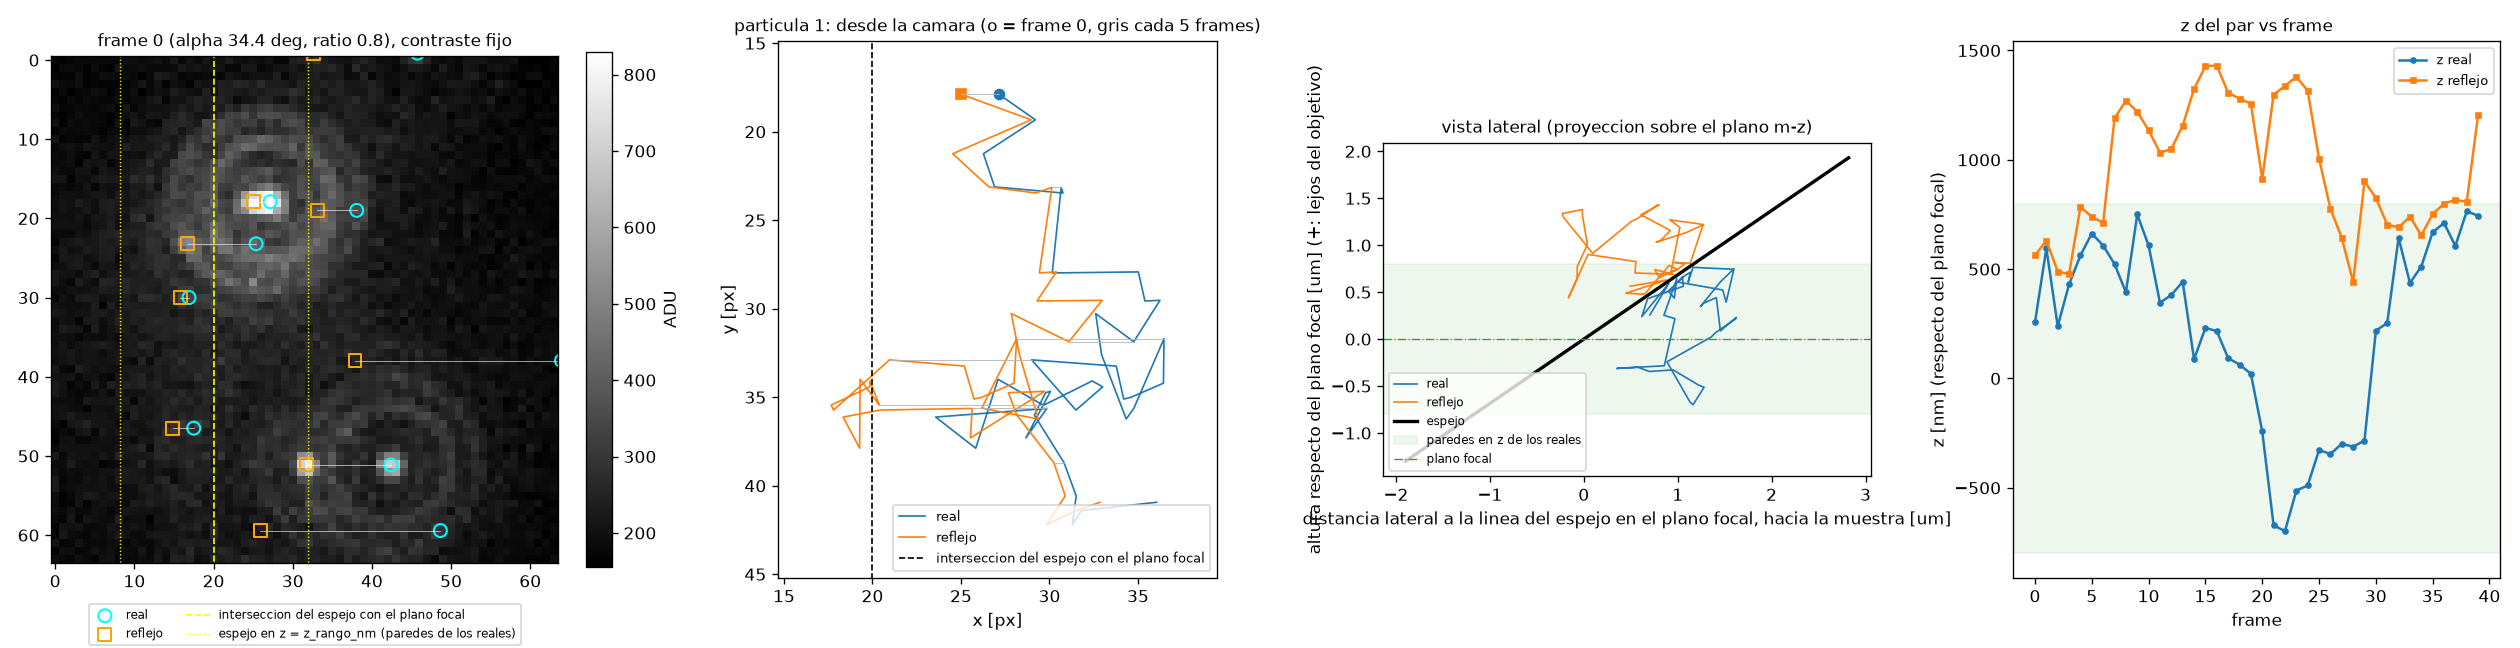
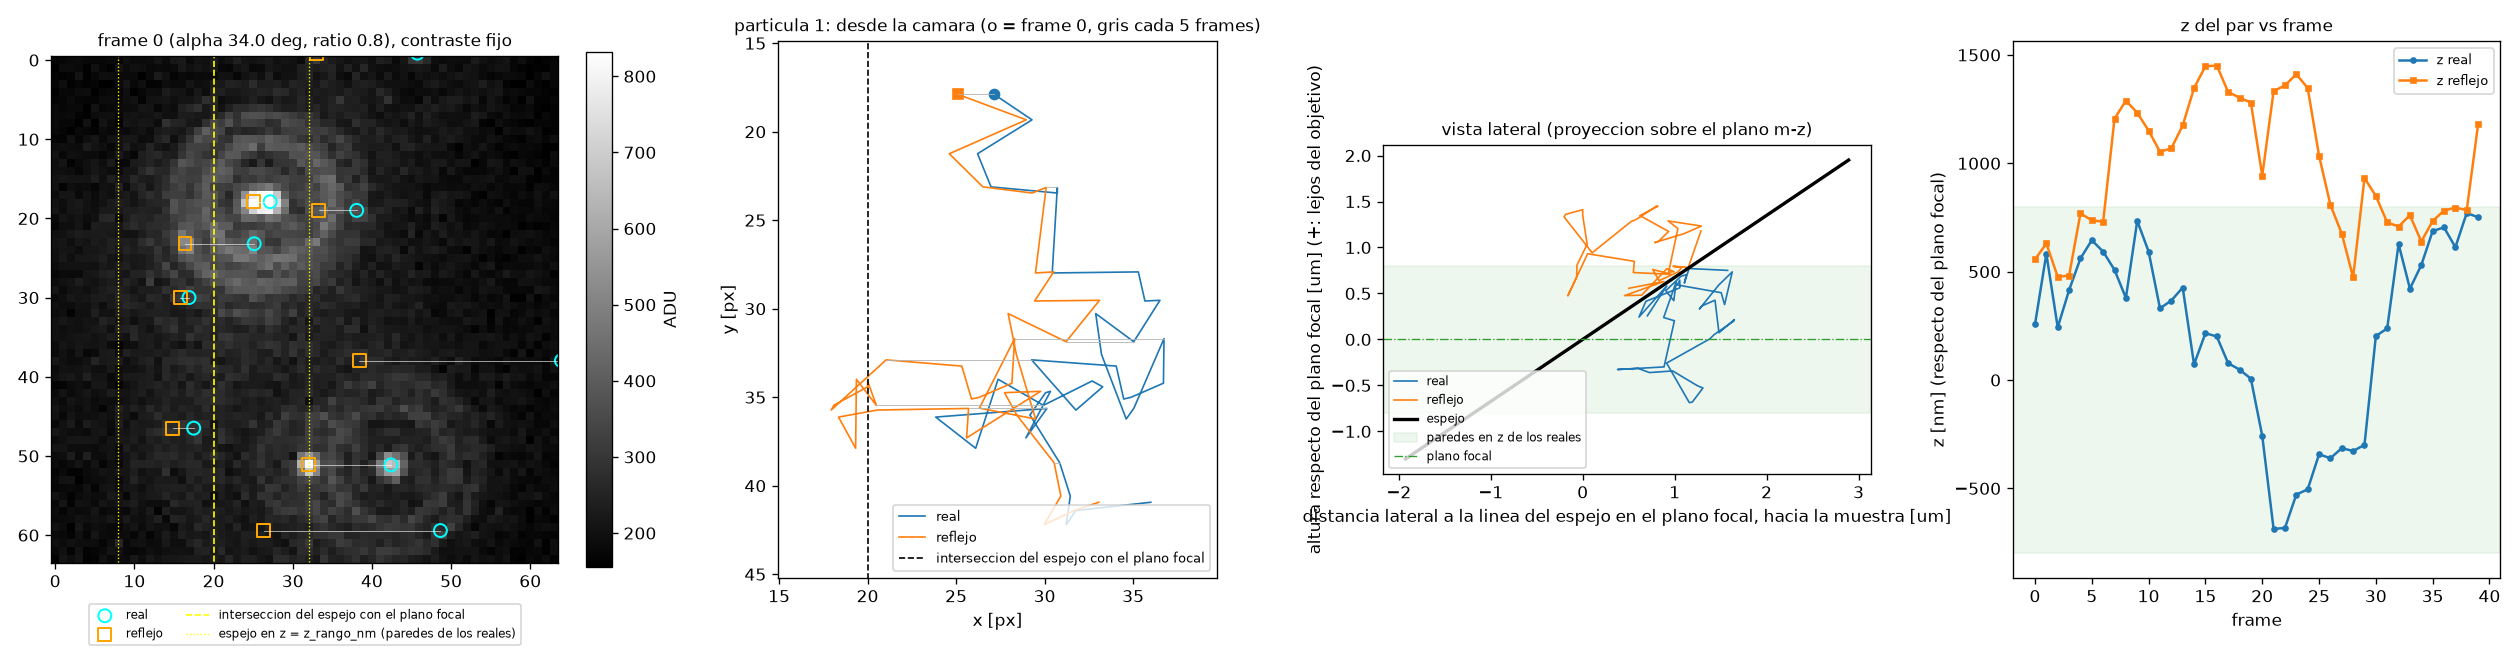
feat: angulo del espejo 34.0 grados por defecto (56 desde el eje optico)
El montaje esta a 56 grados del eje optico (valor medido, redondeado al
grado), asi que angulo_espejo_deg = 90 - 56 = 34.0 en simulador_psf y
simulador_nuevo, y configs/espejo.yaml queda centrado en 34.0 +- 5
([29.0, 39.0]; las corridas espejo_sz+-1 usaron [29.4, 39.4]). Docstrings y
README aclaran que 56 coincide, dentro del redondeo, con arcsin(NA/n) = 55.6.
Tests actualizados (numeros del montaje 1118.4 y 1658.1 nm); la regresion
con el espejo apagado no cambia. fig_espejo_*.png regeneradas.

diff --git a/tests/test_espejo.py b/tests/test_espejo.py
@@ -6,7 +6,7 @@ Compatibles con pytest, pero se corren solos (pytest no esta en el entorno):
     $PY tests/test_espejo.py involucion 45   # solo los que contienen alguna de esas subcadenas
 
 Cubren: involucion, punto medio sobre el plano y p' - p paralelo a n,
-distancias opuestas, casos analiticos (90 y 45 grados, y 34.4 y 53 contra
+distancias opuestas, casos analiticos (90 y 45 grados, y 34.0 y 53 contra
 la formula general), dist_max_espejo_um, z_ref_espejo_nm, dp' = R dp y MSD
 iguales, que ningun emisor real cruza el espejo, fotones del reflejo =
 ratio * fotones del real (en el GT y en la imagen de fotones esperados), que
@@ -32,7 +32,7 @@ from simulador_psf import (Config, BancoPSF, Espejo, generar_video, generar_tray
 # configuracion pequena y barata (PSF "ninguna", recorte chico, paso de banco grueso)
 BASE = dict(H=40, W=56, n_frames=30, mascara="ninguna", K_psf=32, z_paso_nm=50.0,
             n_emisores_rango=(6, 10), D_rango_um2_s=(0.1, 1.0), espejo_punto_px=(12.0, 20.0))
-GEOMETRIAS = [(a, f, p) for a in (20.0, 34.4, 45.0, 53.0, 90.0, 135.0)
+GEOMETRIAS = [(a, f, p) for a in (20.0, 34.0, 45.0, 53.0, 90.0, 135.0)
               for f, p in ((0.0, (12.0, 20.0)), (37.0, (30.0, 5.0)), (200.0, (40.0, 33.0)))]
 
 
@@ -125,15 +125,15 @@ def test_analitico_45():
 
 
 def test_analitico_contra_formula_general():
-    """alpha = 34.4 (el montaje: 55.6 grados desde el eje optico) y 53, con phi,
+    """alpha = 34.0 (el montaje: 56 grados desde el eje optico, medido y redondeado) y 53, con phi,
     punto y z_ref arbitrarios, contra una construccion independiente: en la
     base local (m, t, arriba) el espejo es la recta de angulo alpha en el plano
     (m, arriba), y reflejar es aplicar [[cos 2a, sin 2a], [sin 2a, -cos 2a]] a
     (u, w); t no cambia. Ademas tan(alpha) = separacion lateral / dif. de z."""
     assert Config().signo_z == 1 and Config().signo_inclinacion == 1, "la construccion supone la convencion por defecto"
-    assert Config().angulo_espejo_deg == 34.4 and np.isclose(90.0 - 55.6, 34.4)
-    for a, f, p, zr in ((34.4, 0.0, (20.0, 32.0), 0.0), (34.4, 37.0, (30.0, 5.0), -700.0),
-                        (34.4, 200.0, (40.0, 33.0), 450.0), (53.0, 37.0, (30.0, 5.0), 0.0)):
+    assert Config().angulo_espejo_deg == 34.0 == 90.0 - 56.0
+    for a, f, p, zr in ((34.0, 0.0, (20.0, 32.0), 0.0), (34.0, 37.0, (30.0, 5.0), -700.0),
+                        (34.0, 200.0, (40.0, 33.0), 450.0), (53.0, 37.0, (30.0, 5.0), 0.0)):
         cfg = cfg_espejo(angulo_espejo_deg=a, orientacion_espejo_deg=f, espejo_punto_px=p, z_ref_espejo_nm=zr)
         e = Espejo(cfg)
         al, fr = np.radians(a), np.radians(f)
@@ -153,11 +153,11 @@ def test_analitico_contra_formula_general():
         assert np.allclose(np.hypot(dif[:, 0], dif[:, 1]), 2 * d * np.sin(al), atol=1e-6)
         assert np.allclose(dif[:, 2], 2 * d * np.cos(al), atol=1e-6) and (dif[:, 2] > 0).all()
         assert np.allclose(np.hypot(dif[:, 0], dif[:, 1]) / dif[:, 2], np.tan(al))
-    # numeros del montaje: un emisor a d = 1 um -> dlat = 2 sin(34.4) = 1.130 um, dz = 2 cos(34.4) = 1.650 um
+    # numeros del montaje: un emisor a d = 1 um -> dlat = 2 sin(34) = 1.118 um, dz = 2 cos(34) = 1.658 um
     e = Espejo(cfg_espejo())
     q = e.punto_en_z_nm(0.0) + 1000.0 * e.n
     dif = e.reflejar_nm(q) - q
-    assert np.isclose(np.hypot(*dif[:2]), 1129.9, atol=0.1) and np.isclose(dif[2], 1650.2, atol=0.1)
+    assert np.isclose(np.hypot(*dif[:2]), 1118.4, atol=0.1) and np.isclose(dif[2], 1658.1, atol=0.1)
 
 
 def test_plegar_lleva_al_dominio_y_respeta_puntos_dentro():
@@ -243,7 +243,7 @@ def test_dist_max_espejo():
             # dentro del FOV ampliado salvo donde la franja no lo toca
             s_m = (pos[:, :2] - e.p0[:2]) @ e.m[:2]
             assert ((s_m >= sm.min() - 1e-6) & (s_m <= sm.max() + 1e-6))[~vacia].all()
-            if a == 34.4 and f == 0.0:                              # el caso del montaje: la franja siempre toca el FOV
+            if a == 34.0 and f == 0.0:                              # el caso del montaje: la franja siempre toca el FOV
                 assert not vacia.any()
     # con orientacion 0 el y es el de siempre
     cfg = cfg_espejo(dist_max_espejo_um=dmax)
@@ -477,7 +477,7 @@ def test_signos_consistentes_en_plegado_muestreo_y_reflejo():
         refl = gt[["x_reflejo_px", "y_reflejo_px", "z_reflejo_nm"]].to_numpy()
         assert np.allclose(refl, e.reflejar(real), rtol=0, atol=1e-9)
         dz = (gt.z_reflejo_nm - gt.z_nm).to_numpy()
-        assert (si * sz * dz >= -1e-6).all() and (np.abs(dz) > 1.0).any(), (sz, si)   # alpha = 34.4 < 90
+        assert (si * sz * dz >= -1e-6).all() and (np.abs(dz) > 1.0).any(), (sz, si)   # alpha = 34.0 < 90
         lo, hi = rango_banco_nm(cfg)
         assert (lo < cfg.z_rango_nm[0]) == (si * sz < 0) and (hi > cfg.z_rango_nm[1]) == (si * sz > 0)
         assert gt[gt.frame == 0].reflejo_en_banco.all()

diff --git a/simulador_nuevo/tests/test_espejo.py b/simulador_nuevo/tests/test_espejo.py
@@ -45,7 +45,7 @@ def test_config_valida_el_espejo():
                dict(signo_z=0), dict(signo_inclinacion=2), dict(z_banco_nm=(100.0, -100.0))):
         espera_error(ValueError, cfg_e, **kw)
     c = sim.Config()
-    assert not c.usar_espejo and c.angulo_espejo_deg == 34.4 and c.signo_z == 1 and c.signo_inclinacion == 1
+    assert not c.usar_espejo and c.angulo_espejo_deg == 34.0 and c.signo_z == 1 and c.signo_inclinacion == 1
 
 
 def test_config_json_con_y_sin_espejo():
@@ -69,7 +69,7 @@ def test_misma_geometria_que_simulador_psf():
     y simulador_nuevo dan la misma normal, p0 y reflexion."""
     import simulador_psf as sp                                   # la raiz ya esta en sys.path
     from geometria_espejo import GeometriaEspejo
-    for a, f, sz in ((34.4, 0.0, 1), (53.0, 37.0, -1), (120.0, 200.0, 1)):
+    for a, f, sz in ((34.0, 0.0, 1), (53.0, 37.0, -1), (120.0, 200.0, 1)):
         kw = dict(angulo_espejo_deg=a, orientacion_espejo_deg=f, espejo_punto_px=(12.0, 20.0),
                   z_ref_espejo_nm=-300.0, signo_z=sz)
         en, ep = sim.Espejo(cfg_e(**kw)), sp.Espejo(sp.Config(usar_espejo=True, **kw))
@@ -102,7 +102,7 @@ def test_banco_ampliado_conserva_los_planos_de_z_rango():
 # --- trayectorias -----------------------------------------------------------
 
 def test_ningun_real_cruza_el_espejo_ni_en_los_subpasos():
-    for a, f in ((20.0, 0.0), (34.4, 37.0), (90.0, 200.0), (135.0, 300.0)):
+    for a, f in ((20.0, 0.0), (34.0, 37.0), (90.0, 200.0), (135.0, 300.0)):
         cfg = cfg_e(angulo_espejo_deg=a, orientacion_espejo_deg=f, n_frames=60, n_subpasos=3,
                     t_exp_s=0.06, D_rango_um2_s=(1.0, 3.0))
         e = sim.Espejo(cfg)
@@ -249,7 +249,7 @@ def test_signos_consistentes():
 
 def test_signos_solo_entran_como_producto():
     kw = dict(dist_max_espejo_um=2.5, orientacion_espejo_deg=37.0)
-    ref = {1: video(**kw)[2], -1: video(angulo_espejo_deg=180.0 - 34.4, **kw)[2]}
+    ref = {1: video(**kw)[2], -1: video(angulo_espejo_deg=180.0 - sim.Config().angulo_espejo_deg, **kw)[2]}
     cols = ["x_px", "y_px", "z_nm", "x_reflejo_px", "y_reflejo_px", "z_reflejo_nm"]
     for sz, si in SIGNOS:
         gt = video(signo_z=sz, signo_inclinacion=si, **kw)[2]

diff --git a/localizacion/tests/test_espejo.py b/localizacion/tests/test_espejo.py
@@ -20,9 +20,9 @@ import metricas
 
 RAIZ = Path(__file__).resolve().parents[1]
 ESPEJO_SIM = dict(usar_espejo=True, dist_max_espejo_um=1.0, K_psf=32, z_paso_nm=100.0)
-GEO = dict(espejo_angulo_rango_deg=(29.4, 39.4), espejo_orientacion_aleatoria=True, espejo_punto_aleatorio=True)
+GEO = dict(espejo_angulo_rango_deg=(29.0, 39.0), espejo_orientacion_aleatoria=True, espejo_punto_aleatorio=True)
 SMOKE_ESPEJO = ["datos.simulador.usar_espejo=true", "datos.simulador.dist_max_espejo_um=1.0",
-                "datos.espejo_angulo_rango_deg=[29.4, 39.4]", "datos.espejo_orientacion_aleatoria=true",
+                "datos.espejo_angulo_rango_deg=[29.0, 39.0]", "datos.espejo_orientacion_aleatoria=true",
                 "datos.espejo_punto_aleatorio=true", "datos.canal_distancia_espejo=true",
                 "modelo.dilataciones=[1, 2, 4, 8, 16, 32]"]
 mudo = lambda *a, **k: None
@@ -50,7 +50,7 @@ def test_config_del_espejo():
     e = cargar_config(RAIZ / "configs" / "espejo.yaml")
     assert e.datos.canales_entrada == 2 and e.modelo.dilataciones == (1, 2, 4, 8, 16, 32)
     assert e.datos.simulador["signo_z"] == 1 and e.datos.simulador["ratio_reflejo"] == 0.8
-    assert e.datos.simulador["dist_max_espejo_um"] == 4.0 and e.datos.espejo_angulo_rango_deg == (29.4, 39.4)
+    assert e.datos.simulador["dist_max_espejo_um"] == 4.0 and e.datos.espejo_angulo_rango_deg == (29.0, 39.0)
 
 
 def test_geometria_por_muestra():
@@ -61,7 +61,7 @@ def test_geometria_por_muestra():
     a = np.array([g["angulo_espejo_deg"] for g in gs])
     f = np.array([g["orientacion_espejo_deg"] for g in gs])
     p = np.array([g["espejo_punto_px"] for g in gs])
-    assert (a >= 29.4).all() and (a <= 39.4).all() and a.std() > 2
+    assert (a >= 29.0).all() and (a <= 39.0).all() and a.std() > 2
     assert (f >= 0).all() and (f < 360).all() and f.std() > 80
     assert (p[:, 0] >= -0.5).all() and (p[:, 0] < cs.W - 0.5).all() and (p[:, 1] < cs.H - 0.5).all()
     # flujo propio: activar una opcion no cambia lo que sortean las otras

diff --git a/simulador_psf/espejo.py b/simulador_psf/espejo.py
@@ -18,8 +18,11 @@ Este modulo no consume el rng.
 
 Montaje (grupo de Biofisica): sin cubreobjetos; las celulas estan pegadas al
 espejo, que queda detras de la muestra vista desde el objetivo (z' > z
-siempre: signo_inclinacion = +1 confirmado). Angulo de 55.6 grados respecto
-del eje optico -> alpha = 34.4 grados respecto del plano focal.
+siempre: signo_inclinacion = +1 confirmado). Angulo de 56 grados respecto
+del eje optico (valor medido, redondeado al grado) -> alpha = 34.0 grados
+respecto del plano focal. Coincide, dentro de ese redondeo, con el semiangulo
+del cono de coleccion del objetivo, arcsin(NA/n) = arcsin(1.1/1.333) = 55.6
+grados.
 
 Unidades: la geometria se calcula en nm (x_nm = x_px * pixel_nm, y igual,
 z en nm). Las funciones publicas reciben y devuelven posiciones en las
@@ -58,9 +61,10 @@ Convencion (Config.signo_z y Config.signo_inclinacion, +1 por defecto):
   - alpha = angulo_espejo_deg: angulo entre el espejo y el plano focal (o
     cualquier plano z = cte), medido dentro de la cuna donde esta la muestra;
     valido en (0, 180). 90 = pared vertical. Medido desde el plano focal; si
-    se mide desde el eje optico (beta = 55.6 grados en el montaje actual),
-    alpha = 90 - beta (34.4 grados por defecto: un espejo perpendicular al
-    eje optico, de frente al objetivo, girado 34.4 grados).
+    se mide desde el eje optico (beta = 56 grados en el montaje actual, valor
+    medido redondeado al grado), alpha = 90 - beta (34.0 grados por defecto:
+    un espejo perpendicular al eje optico, de frente al objetivo, girado 34
+    grados).
   - phi = orientacion_espejo_deg: azimut de m, la direccion lateral desde la
     linea del espejo hacia la muestra. La linea va en la direccion
     t = (-sin phi, cos phi, 0), es decir a phi + 90 grados. Un solo numero

diff --git a/checks/check_espejo.py b/checks/check_espejo.py
@@ -5,7 +5,7 @@
                               unidos, y la trayectoria de un par real <-> reflejo
                               (desde la camara, vista lateral y z vs frame).
   fig_espejo_comparacion.png  para comparar con datos reales (particulas puntuales):
-                              - un emisor y su reflejo con el alpha por defecto (34.4 grados) a
+                              - un emisor y su reflejo con el alpha por defecto (34.0 grados) a
                                 d = 0.5, 1, 2 y 3 um del espejo y a dos z respecto
                                 del plano focal, SNR alta (20000 fotones, fondo
                                 5 fot/px) y contraste fijo, con la separacion lateral
@@ -138,7 +138,7 @@ ALPHA = Config.angulo_espejo_deg
 DS_UM = (0.5, 1.0, 2.0, 3.0)                 # distancia del emisor al plano del espejo
 ZS_UM = (-0.4, 0.4)                          # z del emisor respecto del plano focal
 N_FOT, FONDO, RATIO = 20000.0, 5.0, 0.8
-GALERIA_UM = tuple(np.arange(-2.0, 5.51, 0.5))   # hasta la z del reflejo mas alto (+0.4 + 2*3 cos 34.4 = 5.35 um)
+GALERIA_UM = tuple(np.arange(-2.0, 5.51, 0.5))   # hasta la z del reflejo mas alto (+0.4 + 2*3 cos 34.0 = 5.37 um)
 S = 112                                      # lado de cada panel del par [px]
 SG = 64                                      # lado de cada panel de la galeria [px]
 

diff --git a/simulador_psf/config.py b/simulador_psf/config.py
@@ -95,9 +95,9 @@ class Config:
 
     # --- espejo (vista reflejada; geometria y convencion de signos en espejo.py) ---
     usar_espejo: bool = False           # False: salidas identicas a las de antes del espejo
-    angulo_espejo_deg: float = 34.4     # alpha [grados] en (0, 180), dentro de la cuna de la muestra: medido
-                                        # desde el plano focal; si se mide desde el eje optico (beta = 55.6
-                                        # en el montaje actual), alpha = 90 - beta
+    angulo_espejo_deg: float = 34.0     # alpha [grados] en (0, 180), dentro de la cuna de la muestra: medido
+                                        # desde el plano focal; si se mide desde el eje optico (beta = 56 en el
+                                        # montaje actual, valor medido redondeado al grado), alpha = 90 - beta
     orientacion_espejo_deg: float = 0.0  # (ver docstring: desde ImageJ) azimut [grados] de la direccion de la linea del espejo hacia la
                                          # muestra, de +x hacia +y; 0 -> muestra hacia +x, linea vertical en la imagen
     espejo_punto_px: tuple = (20.0, 32.0)  # (x, y) [px] de un punto de la linea del espejo en el plano de referencia

diff --git a/simulador_nuevo/simulador.py b/simulador_nuevo/simulador.py
@@ -141,7 +141,8 @@ class Config:
 
     # --- espejo (geometria y convencion: simulador_psf/espejo.py y config.py) ---
     usar_espejo: bool = False       # False: salidas identicas a las de antes del espejo
-    angulo_espejo_deg: float = 34.4  # alpha en (0, 180): espejo-plano focal, dentro de la cuna de la muestra
+    angulo_espejo_deg: float = 34.0  # alpha en (0, 180): espejo-plano focal, dentro de la cuna de la muestra
+                                     # (= 90 - 56: el montaje esta a 56 grados del eje optico, medido y redondeado)
     orientacion_espejo_deg: float = 0.0   # phi: azimut de la direccion linea del espejo -> muestra, de +x hacia +y
     espejo_punto_px: tuple = (20.0, 32.0)  # (x, y) [px] de un punto de la linea del espejo en el plano de referencia
     ratio_reflejo: float = 0.8      # fotones del reflejo / del real, en (0, 1]

diff --git a/localizacion/generar_espejo.py b/localizacion/generar_espejo.py
@@ -1,6 +1,6 @@
 """
 Genera un dataset con el espejo activo (formato de pregenerar.py) a partir de
-configs/espejo.yaml: alpha = 34.4 +- 5 grados, ratio_reflejo = 0.8,
+configs/espejo.yaml: alpha = 34.0 +- 5 grados, ratio_reflejo = 0.8,
 dist_max_espejo_um = 4, geometria aleatoria por muestra, y signo_z como
 parametro (no cambia el valor por defecto del simulador, +1).
 

diff --git a/README.md b/README.md
@@ -74,8 +74,10 @@ y con `usar_espejo=False` las salidas son identicas bit a bit a las de antes.
   (el espejo lo corta a cualquier altura).
 - Parametros: `angulo_espejo_deg` (angulo espejo-plano focal dentro de la
   cuna de la muestra, en (0, 180); medido desde el plano focal; si se mide
-  desde el eje optico (beta = 55.6 grados en el montaje actual),
-  `alpha = 90 - beta`, y 34.4 es el valor por defecto), `orientacion_espejo_deg` (azimut, de +x hacia
+  desde el eje optico (beta = 56 grados en el montaje actual, valor medido
+  redondeado al grado), `alpha = 90 - beta`, y 34.0 es el valor por defecto;
+  56 grados coincide, dentro de ese redondeo, con el semiangulo del cono de
+  coleccion arcsin(NA/n) = arcsin(1.1/1.333) = 55.6 grados), `orientacion_espejo_deg` (azimut, de +x hacia
   +y, de la direccion desde la linea del espejo hacia la muestra),
   `espejo_punto_px` (un punto de esa linea en el plano de referencia),
   `z_ref_espejo_nm` (z del plano de referencia respecto del foco; 0 por
@@ -94,7 +96,7 @@ y con `usar_espejo=False` las salidas son identicas bit a bit a las de antes.
 - El reflejo se renderiza con la misma optica en su (x', y', z') con
   `ratio_reflejo * photons`; el ruido se aplica una vez sobre la suma. El banco
   de PSF se amplia solo (`z_banco_nm=None`) para cubrir las z' de la caja de
-  posiciones iniciales (a 34.4 grados con el FOV de 64 px: [-800, 4620] nm, 272
+  posiciones iniciales (a 34.0 grados con el FOV de 64 px: [-800, 4600] nm, 271
   planos); un reflejo que aun asi queda fuera no se renderiza.
 - Ground truth: con espejo se agregan `x_reflejo_px, y_reflejo_px,
   z_reflejo_nm, photons_reflejo, reflejo_en_fov, reflejo_en_banco` en la
